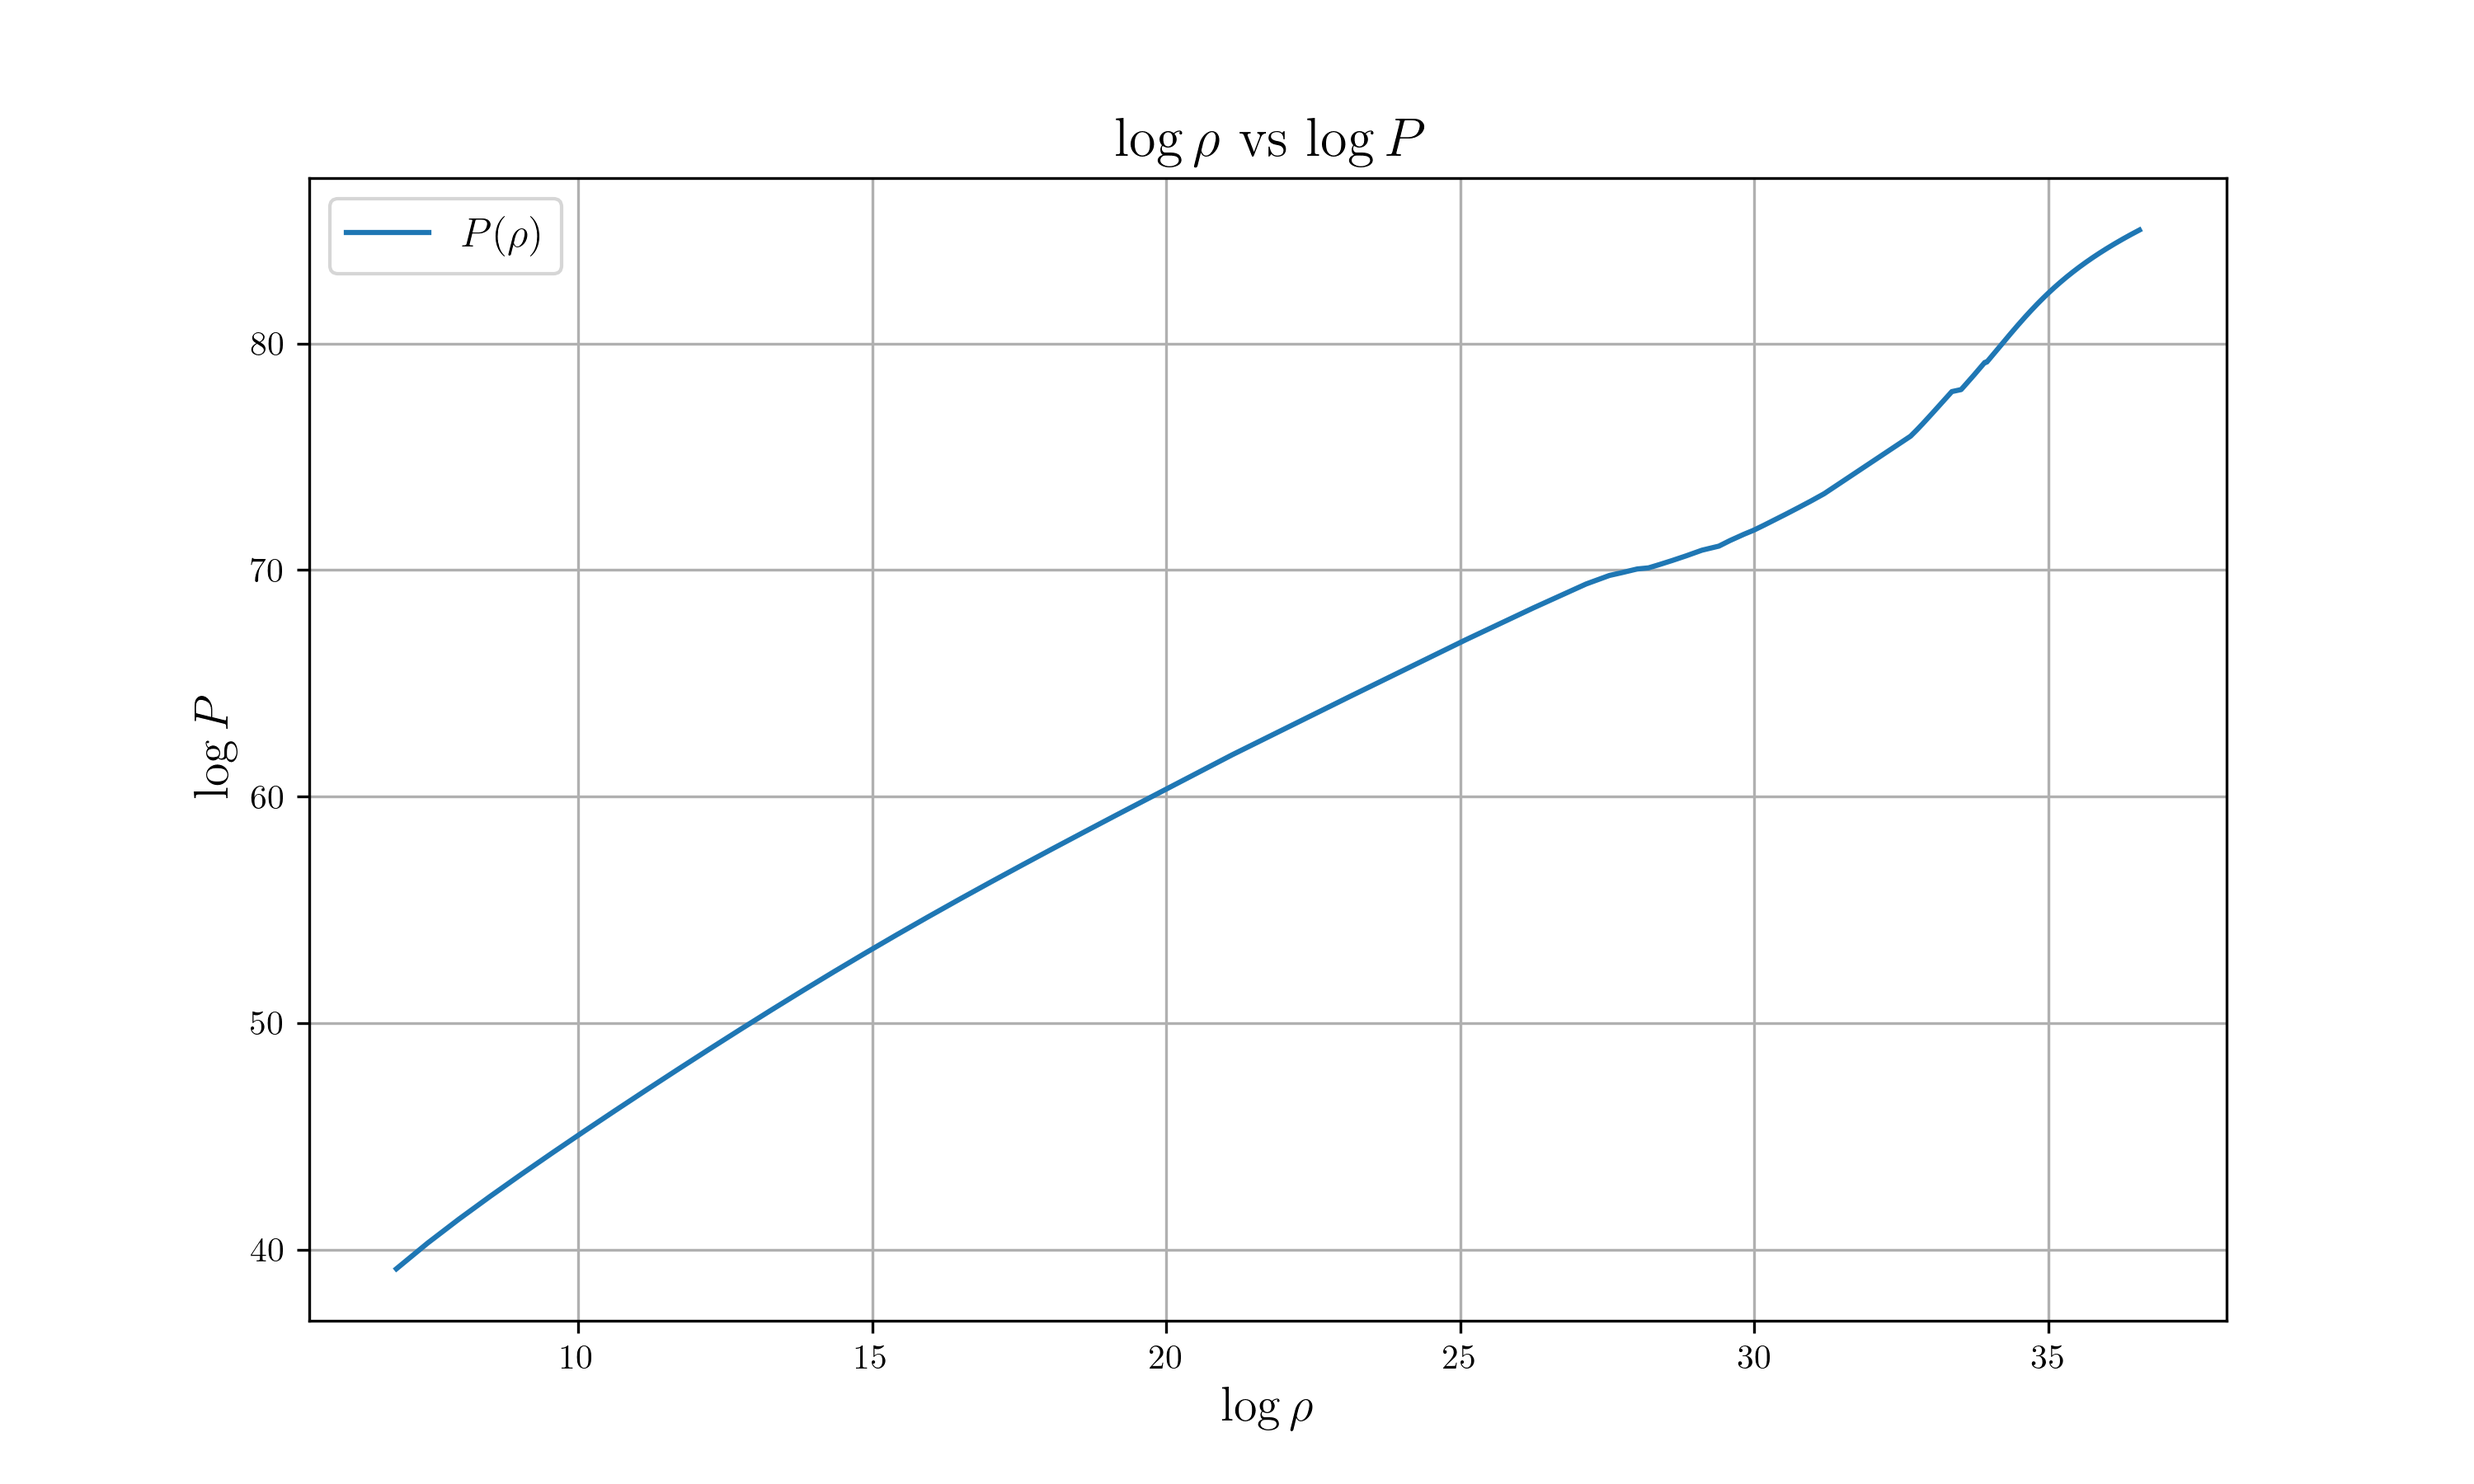
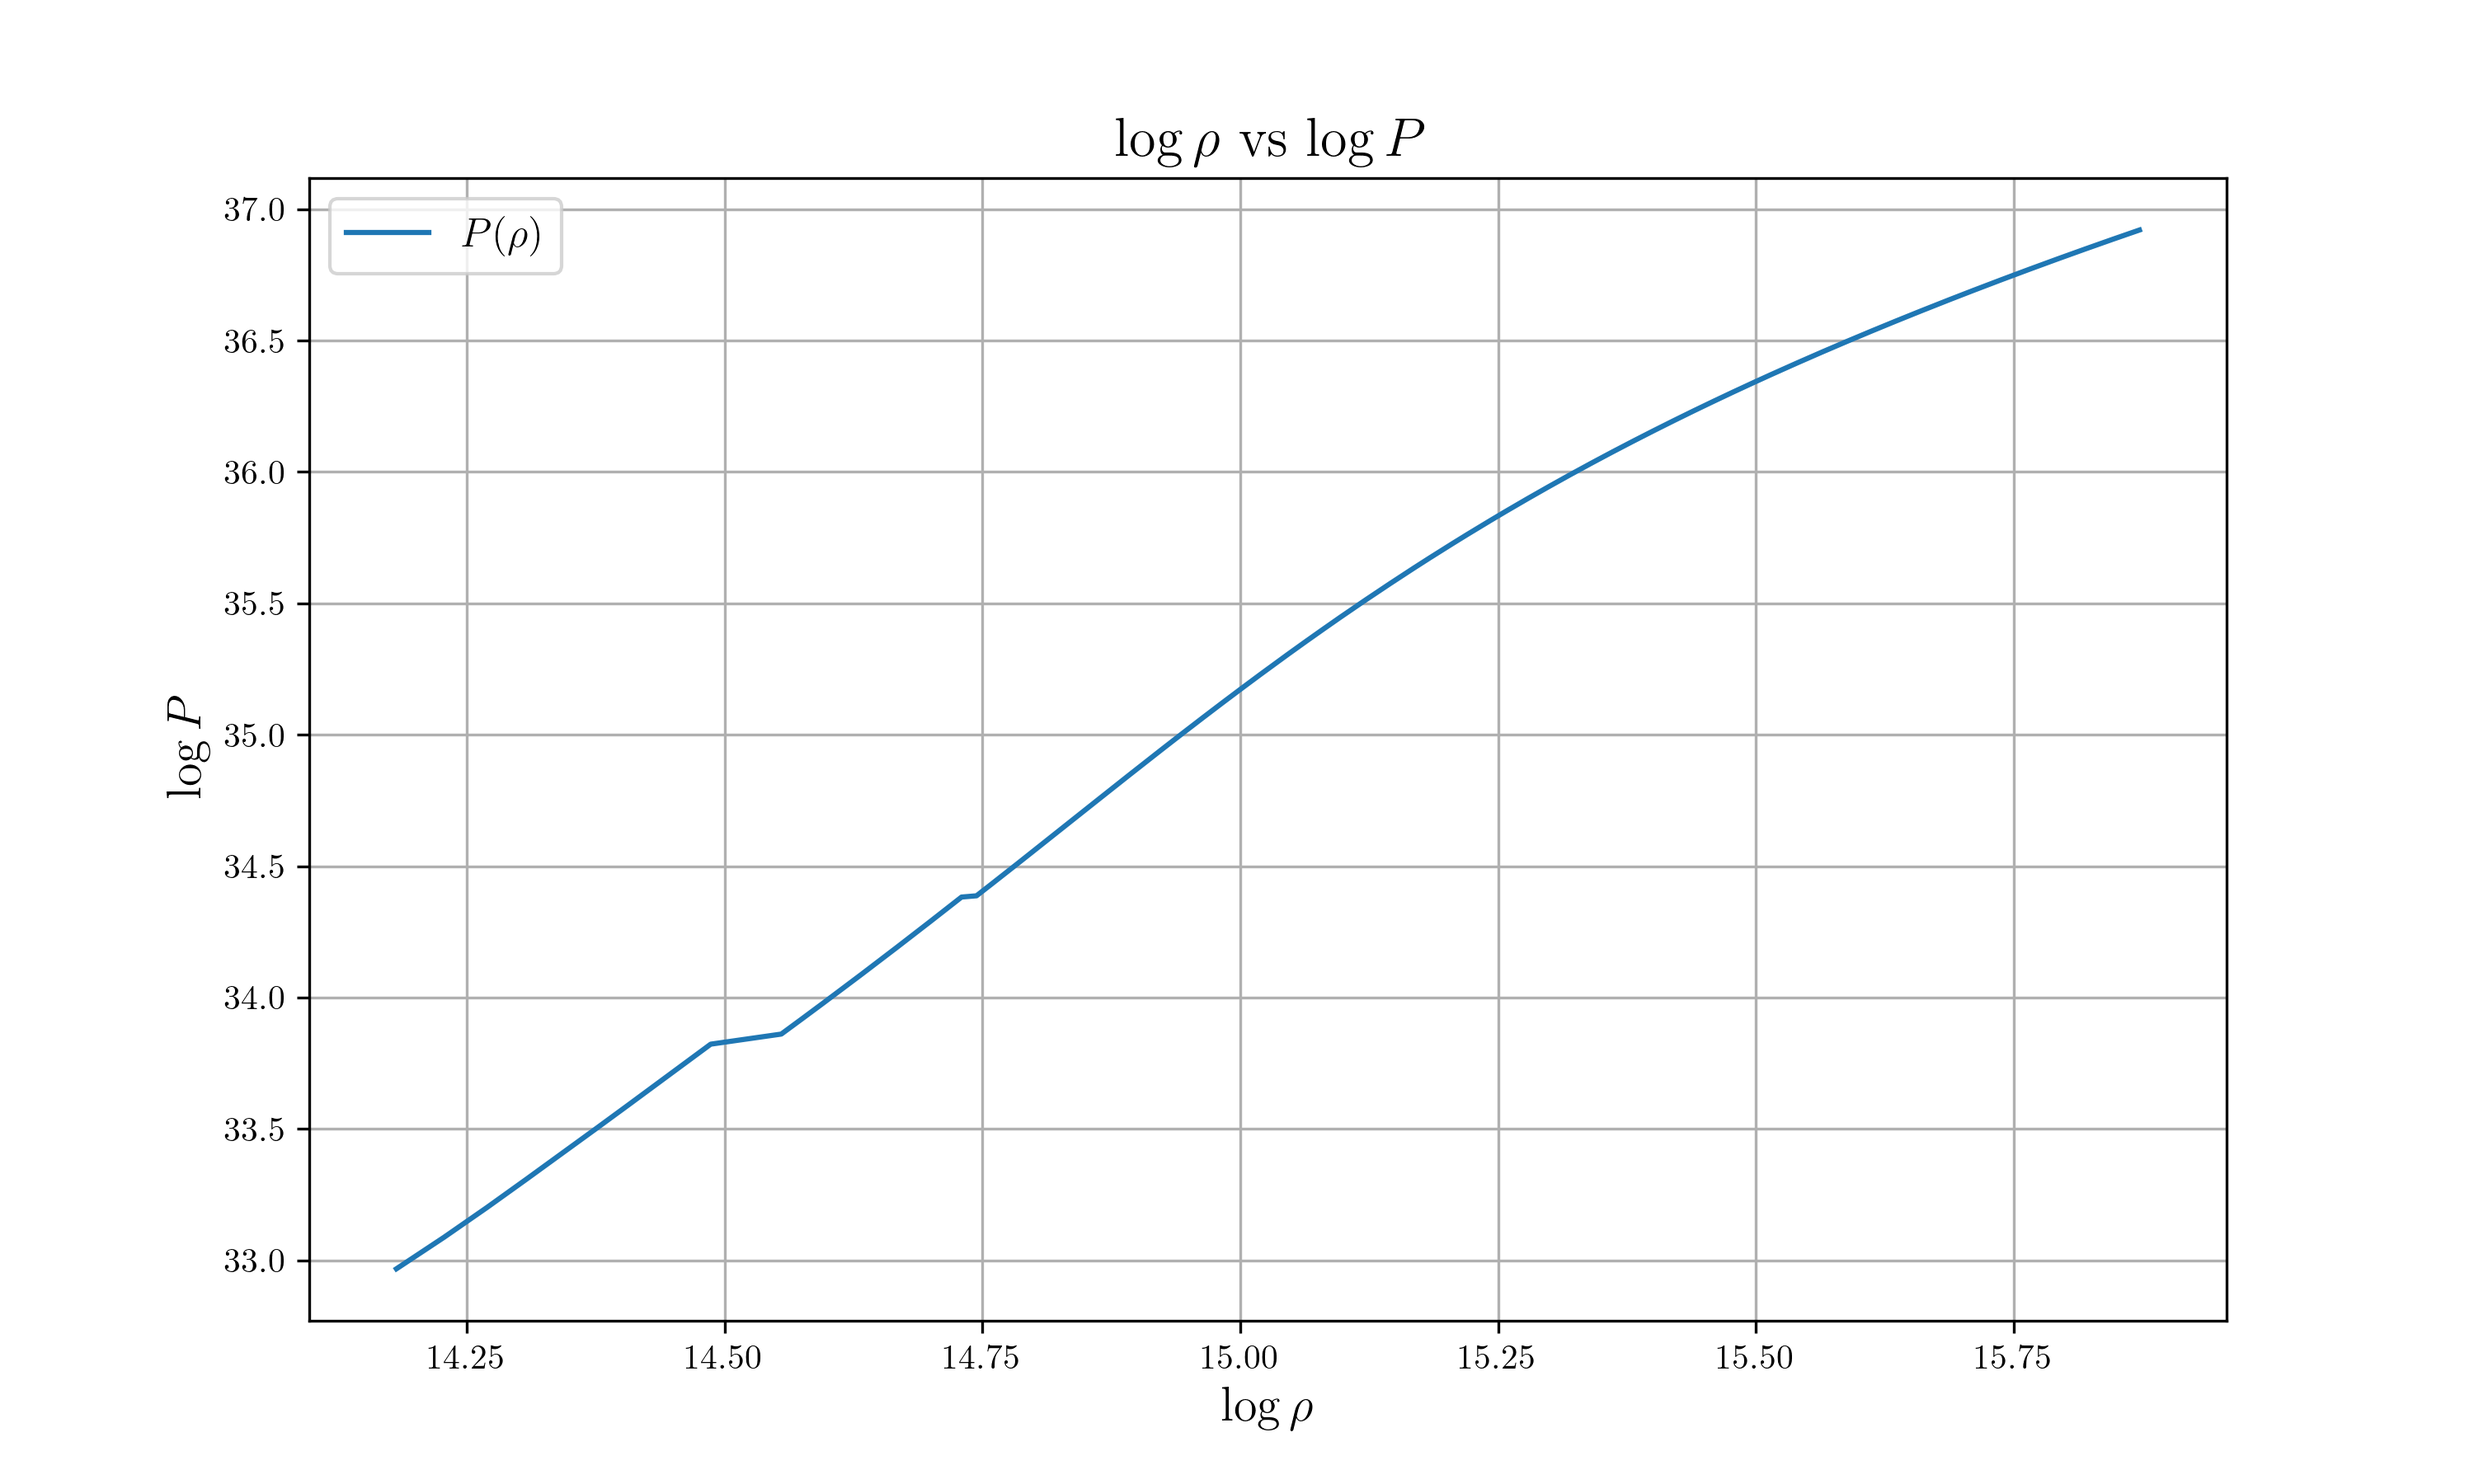
APR Fit completed

diff --git a/src/main.rs b/src/main.rs
@@ -1,15 +1,17 @@
 #![feature(proc_macro_hygiene)]
 extern crate peroxide;
-//extern crate inline_python;
+extern crate inline_python;
 extern crate natural_unit;
 use peroxide::*;
 use natural_unit::*;
 use std::f64::consts::PI;
 use NSCool::tov::eos::*;
-//use inline_python::python;
+use inline_python::python;
 
-pub const K: f64 = 100f64;
-pub const GAMMA: f64 = 2f64;
+pub const K: f64 = 793.1060f64;
+pub const GAMMA: f64 = 2.3436f64;
+pub const K2: f64 = 0.4424f64;
+pub const GAMMA2: f64 = 1.3841f64;
 
 #[allow(non_snake_case)]
 fn main() {
@@ -32,58 +34,73 @@ fn main() {
     // Insert ODE
     let mut tov_solver = ExplicitODE::new(tov_polytrope);
     tov_solver
-        .set_step_size(1e-5*r_step)
-        .set_times(200_000)
+        .set_step_size(1e-6*r_step)
+        .set_times(2_000_000)
         .set_method(ExMethod::RK4)
         .set_initial_condition(init_state)
-        .set_stop_condition(stop_by_p);
+        .set_stop_condition(stop_by_crust);
+
+    let results1 = tov_solver.integrate();
 
     // Integration
-    let results = tov_solver.integrate();
-    println!("Integrate finish");
+    tov_solver
+        .set_stop_condition(stop_by_p);
+    let results2 = tov_solver.integrate();
+    println!("Integrate finish!");
+
+    let value = results1.row(results1.row-1);
+    println!("To crust: {} km", invert(value[0], Length, cgs_to_geom) / 100f64 / 1000f64);
+    println!("To crust: {} solar mass", value[1]);
+
+    let value2 = results2.row(results2.row-1);
+    println!("To surface: {} km", invert(value2[0], Length, cgs_to_geom) / 100f64 / 1000f64);
+    println!("To surface: {} solar mass", value2[1]);
 
     // Prepare vectors to input Python
-    let result_r = results.col(0);
-    let result_m = results.col(1);
-    let result_rho = results.col(2);
-    let result_p = result_rho.fmap(|x| K * x.powf(GAMMA));
+    let result_r = concat(results1.col(0), results2.col(0));
+    let result_m = concat(results1.col(1), results2.col(1));
+    let result_rho = concat(results1.col(2), results2.col(2));
+    let result_p = concat(
+        results1.col(2).fmap(|x| K * x.powf(GAMMA)),
+        results2.col(2).fmap(|x| K2 * x.powf(GAMMA2))
+    );
 
-//    // Python plot code
-//    python! {
-//        import pylab as plt
-//        import numpy as np
-//
-//        # Use latex
-//        plt.rc("text", usetex=True)
-//        plt.rc("font", family="serif")
-//
-//        # Plot
-//        plt.figure(figsize=(10,6), dpi=300)
-//        plt.title(r"$R$ vs $\rho$", fontsize=16)
-//        plt.xlabel(r"$r$", fontsize=14)
-//        plt.ylabel(r"$\rho$", fontsize=14)
-//        plt.plot('result_r, 'result_rho)
-//        plt.grid()
-//        plt.savefig("data/r_vs_rho.png")
-//
-//        # Plot2
-//        plt.figure(figsize=(10,6), dpi=300)
-//        plt.title(r"$R$ vs $m$", fontsize=16)
-//        plt.xlabel(r"$r$", fontsize=14)
-//        plt.ylabel(r"$m$", fontsize=14)
-//        plt.plot('result_r, 'result_m)
-//        plt.grid()
-//        plt.savefig("data/r_vs_m.png")
-//
-//        # Plot3
-//        plt.figure(figsize=(10,6), dpi=300)
-//        plt.title(r"$R$ vs $P$", fontsize=16)
-//        plt.xlabel(r"$r$", fontsize=14)
-//        plt.ylabel(r"$p$", fontsize=14)
-//        plt.plot('result_r, 'result_p)
-//        plt.grid()
-//        plt.savefig("data/r_vs_p.png")
-//    }
+    // Python plot code
+    python! {
+        import pylab as plt
+        import numpy as np
+
+        # Use latex
+        plt.rc("text", usetex=True)
+        plt.rc("font", family="serif")
+
+        # Plot
+        plt.figure(figsize=(10,6), dpi=300)
+        plt.title(r"$R$ vs $\rho$", fontsize=16)
+        plt.xlabel(r"$r$", fontsize=14)
+        plt.ylabel(r"$\rho$", fontsize=14)
+        plt.plot('result_r, 'result_rho)
+        plt.grid()
+        plt.savefig("figure/APR/r_vs_rho.png")
+
+        # Plot2
+        plt.figure(figsize=(10,6), dpi=300)
+        plt.title(r"$R$ vs $m$", fontsize=16)
+        plt.xlabel(r"$r$", fontsize=14)
+        plt.ylabel(r"$m$", fontsize=14)
+        plt.plot('result_r, 'result_m)
+        plt.grid()
+        plt.savefig("figure/APR/r_vs_m.png")
+
+        # Plot3
+        plt.figure(figsize=(10,6), dpi=300)
+        plt.title(r"$R$ vs $P$", fontsize=16)
+        plt.xlabel(r"$r$", fontsize=14)
+        plt.ylabel(r"$p$", fontsize=14)
+        plt.plot('result_r, 'result_p)
+        plt.grid()
+        plt.savefig("figure/APR/r_vs_p.png")
+    }
 }
 
 pub fn tov_polytrope(st: &mut State<f64>) {
@@ -105,7 +122,26 @@ pub fn tov_polytrope(st: &mut State<f64>) {
     }
 }
 
+pub fn tov_polytrope_crust(st: &mut State<f64>) {
+    let r = st.param;
+    let xs = &st.value; // m, rho, p
+    let mut dx = &mut st.deriv;
+
+    let m = xs[0];
+    let rho = xs[1];
+    let p = K2 * rho.powf(GAMMA2);
+
+    let eps = rho + 1f64 / (GAMMA2 - 1f64) * K2 * rho.powf(GAMMA2);
+    dx[0] = 4f64*PI*r.powi(2)*eps;
+    dx[1] = -(eps + p) * (m + 4f64*PI*r.powi(3)*p) / (r * (r - 2f64*m)) * rho / (p * GAMMA2);
+}
+
 pub fn stop_by_p(st: &ExplicitODE) -> bool {
     let rho = st.get_state().value[1];
-    (K*rho.powf(GAMMA) - 0f64).abs() < 1e-6
+    K2*rho.powf(GAMMA2) < 1e-10
+}
+
+pub fn stop_by_crust(st: &ExplicitODE) -> bool {
+    let rho = st.get_state().value[1];
+    rho < 1e-4
 }

diff --git a/src/bin/search.rs b/src/bin/search.rs
@@ -15,47 +15,70 @@ fn main() {
         c.powi(3) / (G*M),
     );
 
-    let apr_data = Matrix::read("data/APR_EOS_Acc_Fe.dat", false, ' ').expect("Can't read matrix");
-    let sly_data = Matrix::read("data/sly4.dat", false, ' ').expect("Can't read matrix");
-    let fps_data = Matrix::read("data/fps.dat", false, ' ').expect("Can't read matrix");
+    let apr_data = Matrix::read("data/APR_EOS_Acc_Fe.dat", false, ' ').expect("Can't read APR");
+    let sly_data = Matrix::read("data/sly4.dat", false, ' ').expect("Can't read SLy4");
+    let fps_data = Matrix::read("data/fps.dat", false, ' ').expect("Can't read FPS");
+    let apr_crust = Matrix::read("data/APR_EOS_Acc_Fe_crust.dat", false, ' ').expect("Can't read crust");
 
-    let apr_skipped = apr_data.skip(196, Row);
-
-    let rho = apr_data.col(0).fmap(|x| x.ln());
-    let p = apr_data.col(1).fmap(|x| x.ln());
-
-    let rho_skipped = apr_skipped.col(0).fmap(|x| x.ln());
-    let p_skipped = apr_skipped.col(1).fmap(|x| x.ln());
-
-    rho_skipped[0].print();
-    p_skipped[0].print();
+    let rho = apr_data.col(0).fmap(|x| convert(x, Density, cgs_to_geom.clone()).log10());
+    let p = apr_data.col(1).fmap(|x| convert(x, Pressure, cgs_to_geom.clone()).log10());
+    let rho_crust = apr_crust.col(0).fmap(|x| convert(x, Density, cgs_to_geom).log10());
+    let p_crust = apr_crust.col(1).fmap(|x| convert(x, Pressure, cgs_to_geom).log10());
 
     rho.len().print();
     p.len().print();
 
-    let kg = vec![2f64];
-    let data = hstack!(rho_skipped.clone(), p_skipped.clone());
+    let kg = vec![100f64, 2f64];
+
+    let data = hstack!(rho.clone(), p.clone());
+    let data_crust = hstack!(rho_crust.clone(), p_crust.clone());
+
     let mut opt = Optimizer::new(data, polytrope);
-    let param = opt.set_init_param(kg)
+    let param = opt.set_init_param(kg.clone())
         .set_method(LevenbergMarquardt)
-        .set_max_iter(30)
+        .set_max_iter(100)
         .optimize();
     param.print();
+
+    let mut opt_crust = Optimizer::new(data_crust, polytrope);
+    let param_crust = opt_crust.set_init_param(kg.clone())
+        .set_method(LevenbergMarquardt)
+        .set_max_iter(100)
+        .optimize();
+    param_crust.print();
+
+    let fit = polytrope(&rho, NumberVector::from_f64_vec(param)).to_f64_vec();
+    let fit_crust = polytrope(&rho_crust, NumberVector::from_f64_vec(param_crust)).to_f64_vec();
 
     let mut plot = Plot2D::new();
     plot.set_domain(rho)
         .insert_image(p)
+        .insert_image(fit)
         .set_title("$\\log \\rho$ vs $\\log P$")
         .set_xlabel("$\\log\\rho$")
         .set_ylabel("$\\log P$")
-        .set_path("figure/test_rho_p.png")
-        .set_legends(vec!["$P(\\rho)$"])
+        .set_path("figure/APR/apr_fit.png")
+        .set_legends(vec!["$APR$", "fit"])
+        .set_marker(vec![Point, Line])
+        .savefig().expect("Can't draw a plot");
+
+    let mut plot = Plot2D::new();
+    plot.set_domain(rho_crust)
+        .insert_image(p_crust)
+        .insert_image(fit_crust)
+        .set_title("$\\log \\rho$ vs $\\log P$")
+        .set_xlabel("$\\log\\rho$")
+        .set_ylabel("$\\log P$")
+        .set_path("figure/APR/apr_crust_fit.png")
+        .set_legends(vec!["$APR$", "fit"])
+        .set_marker(vec![Point, Line])
         .savefig().expect("Can't draw a plot");
 }
 
 fn polytrope(rho: &Vec<f64>, kr: Vec<Number>) -> Vec<Number> {
-    let g = kr[0];
+    let k = kr[0];
+    let g = kr[1];
     rho.clone().into_iter()
-        .map(|x| g * Number::from_f64(x))
+        .map(|x| k.log10() + g * x)
         .collect()
 }

diff --git a/src/bin/lm_test.rs b/src/bin/lm_test.rs
@@ -1,0 +1,37 @@
+extern crate peroxide;
+use peroxide::*;
+
+fn main() {
+    let normal = Normal(0f64, 0.1f64);
+    let normal2 = Normal(0f64, 100f64);
+
+    let mut x = seq(0., 99., 1f64);
+    x = zip_with(|a, b| a + b, &x, &normal.sample(x.len()));
+
+    let mut y = x.fmap(|t| t.powi(2));
+    y = zip_with(|a, b| a + b, &y, &normal2.sample(y.len()));
+
+    let n_init = vec![1f64];
+    let data = hstack!(x.clone(), y.clone());
+
+    let mut opt = Optimizer::new(data, quad);
+    opt.set_init_param(n_init)
+        .set_max_iter(30)
+        .set_method(LevenbergMarquardt)
+        .optimize().print();
+
+    let mut plt = Plot2D::new();
+    plt.set_domain(x)
+        .insert_image(y)
+        .set_legends(vec!["$y=x^2$"])
+        .set_title("Test")
+        .set_path("figure/lm_test.png")
+        .savefig().expect("Can't draw a plot");
+}
+
+fn quad(x: &Vec<f64>, n: Vec<Number>) -> Vec<Number> {
+    let exp = n[0];
+    x.clone().into_iter()
+        .map(|t| Number::from_f64(t).powf(exp))
+        .collect()
+}
